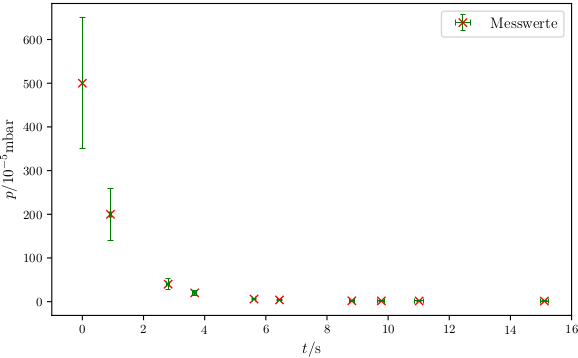
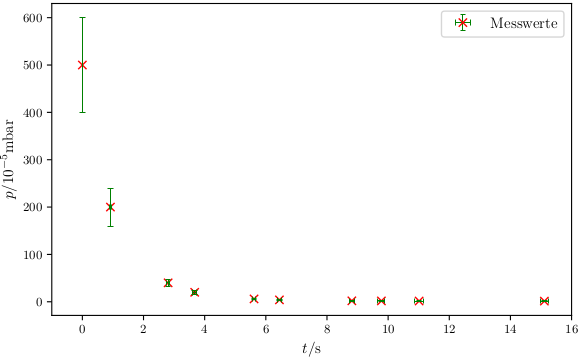
V70 python 2b)

diff --git a/FP-V70/scripts/mainscriptw.py b/FP-V70/scripts/mainscriptw.py
@@ -238,68 +238,6 @@ plt.savefig('content/images/TL.png')
 print('TL done')
 
 
-#TS
-#VTS = 
-
-pTS,tTS_1,tTS_2,tTS_3,tTS_4,tTS_5,tTS_6 = np.genfromtxt(r'scripts/dataTS1.txt',unpack=True)
-p0TS = np.array(500)
-pTS = np.append(p0TS,pTS)
-pTS = unp.uarray(pTS,pTS*0.3)
-pTS_end = 1.2
-pTS_end = unp.uarray(pTS_end,pTS_end*0.3)
-
-tTS = [0]
-tTS_f = [0]
-
-for i in range (0,len(tTS_1)):
-	th,th_f = avg_and_sem([tTS_1[i],tTS_2[i],tTS_3[i],tTS_4[i],tTS_5[i],tTS_6[i]])
-	tTS.append(th)
-	tTS_f.append(th_f)
-
-tTS=unp.uarray(tTS,tTS_f)
-
-pTS_h = (pTS-pTS_end)/(pTS[0]-pTS_end)
-#pTS_log = np.log(noms(pTS_h))
-#pTS_log_err = 1/noms(pTS_h)*stds(pTS_h)
-#pTS_log_err = [np.log(noms(pTS_h)+stds(pTS_h))-np.log(noms(pTS_h)), np.log(noms(pTS_h))-np.log(noms(pTS_h)-stds(pTS_h))]
-#pTS_log = unp.uarray(pTS_log,pTS_log_err)
-pTS_log = unp.log(pTS_h)
-
-#Plot
-#TSE
-plt.cla()
-plt.clf()
-x_plot = np.linspace(-2,15)
-
-plt.errorbar(noms(tTS), noms(pTS), xerr=stds(tTS), yerr=stds(pTS), fmt='rx', markersize=6, elinewidth=0.5, capsize=2, capthick=0.5, ecolor='g',barsabove=True ,label='Messwerte')
-#plt.plot(x_plot,x_plot*paramsLinearTL1[0]+paramsLinearTL1[1],'b-',label='Ausgleichsgerade')
-
-plt.xlabel(r'$t/\si{\second}$')
-plt.ylabel(r'$p/10^{-5}\si{\milli\bar}$')
-plt.xlim(-1,16)
-plt.legend(loc='best')
-plt.tight_layout(pad=0, h_pad=1.08, w_pad=1.08)
-plt.savefig('content/images/TSE.png')
-print('TSE done')
-
-#TSL
-plt.cla()
-plt.clf()
-x_plot = np.linspace(-2,15)
-
-plt.errorbar(noms(tTS), noms(pTS_log), xerr=stds(tTS), yerr=stds(pTS_log), fmt='rx', markersize=6, elinewidth=0.5, capsize=2, capthick=0.5, ecolor='g',barsabove=True ,label='Messwerte')
-#plt.errorbar(noms(tTS), noms(pTS_log), xerr=stds(tTS), yerr=[pTS_log_err[0],pTS_log_err[1]], fmt='rx', markersize=6, elinewidth=0.5, capsize=2, capthick=0.5, ecolor='g',barsabove=True ,label='Messwerte')
-#plt.plot(x_plot,x_plot*paramsLinearTL1[0]+paramsLinearTL1[1],'b-',label='Ausgleichsgerade')
-
-plt.xlabel(r'$t/\si{\second}$')
-plt.ylabel(r'$\log\left(\frac{p-p_e}{p_0-p_e}\right)$')
-#plt.xlim(-1,16)
-plt.legend(loc='best')
-plt.tight_layout(pad=0, h_pad=1.08, w_pad=1.08)
-plt.savefig('content/images/TSL.png')
-print('TSL done')
-print('TS done')
-
 #DL
 VDL = unp.uarray(11.15,1.032)
 #DL1
@@ -488,3 +426,205 @@ plt.savefig('content/images/DL.png')
 print('DL done')
 
 
+#TS
+VTS = unp.uarray(10.298,0.92)
+
+pTS,tTS_1,tTS_2,tTS_3,tTS_4,tTS_5,tTS_6 = np.genfromtxt(r'scripts/dataTS1.txt',unpack=True)
+p0TS = np.array(500)
+pTS = np.append(p0TS,pTS)
+pTS = unp.uarray(pTS,pTS*0.2)
+pTS_end = 1.2
+pTS_end = unp.uarray(pTS_end,pTS_end*0.2)
+
+tTS = [0]
+tTS_f = [0]
+
+for i in range (0,len(tTS_1)):
+	th,th_f = avg_and_sem([tTS_1[i],tTS_2[i],tTS_3[i],tTS_4[i],tTS_5[i],tTS_6[i]])
+	tTS.append(th)
+	tTS_f.append(th_f)
+
+tTS=unp.uarray(tTS,tTS_f)
+
+#pTS_log = np.log(noms(pTS_h))
+#pTS_log_err = 1/noms(pTS_h)*stds(pTS_h)
+#pTS_log_err = [np.log(noms(pTS_h)+stds(pTS_h))-np.log(noms(pTS_h)), np.log(noms(pTS_h))-np.log(noms(pTS_h)-stds(pTS_h))]
+#pTS_log = unp.uarray(pTS_log,pTS_log_err)
+pTS_h = (pTS-pTS_end)/(pTS[0]-pTS_end)
+pTS_log = unp.log(pTS_h)
+
+paramsLinearTS1, errorsLinearTS1, sigma_y = linregress(noms(tTS)[0:4], noms(pTS_log)[0:4])
+steigungTS1 = unp.uarray(paramsLinearTS1[0],errorsLinearTS1[0])
+paramsLinearTS2, errorsLinearTS2, sigma_y = linregress(noms(tTS)[3:6], noms(pTS_log)[3:6])
+steigungTS2 = unp.uarray(paramsLinearTS2[0],errorsLinearTS2[0])
+paramsLinearTS3, errorsLinearTS3, sigma_y = linregress(noms(tTS)[6:10], noms(pTS_log)[6:10])
+steigungTS3 = unp.uarray(paramsLinearTS3[0],errorsLinearTS3[0])
+
+STS1 = steigungTS1*(-VTS) 
+STS2 = steigungTS2*(-VTS) 
+STS3 = steigungTS3*(-VTS) 
+print('STS1 = ', STS1)
+print('STS2 = ', STS2)
+print('STS3 = ', STS3)
+
+"""
+#Plot
+#TSE
+plt.cla()
+plt.clf()
+x_plot = np.linspace(-2,15)
+
+plt.errorbar(noms(tTS), noms(pTS), xerr=stds(tTS), yerr=stds(pTS), fmt='rx', markersize=6, elinewidth=0.5, capsize=2, capthick=0.5, ecolor='g',barsabove=True ,label='Messwerte')
+
+plt.xlabel(r'$t/\si{\second}$')
+plt.ylabel(r'$p/10^{-5}\si{\milli\bar}$')
+plt.xlim(-1,16)
+plt.legend(loc='best')
+plt.tight_layout(pad=0, h_pad=1.08, w_pad=1.08)
+plt.savefig('content/images/TSE.png')
+print('TSE done')
+
+#TSL
+plt.cla()
+plt.clf()
+x_plot = np.linspace(-1,16)
+
+plt.errorbar(noms(tTS), noms(pTS_log), xerr=stds(tTS), yerr=stds(pTS_log), fmt='rx', markersize=6, elinewidth=0.5, capsize=2, capthick=0.5, ecolor='g',barsabove=True ,label='Messwerte')
+plt.plot(x_plot,x_plot*paramsLinearTS1[0]+paramsLinearTS1[1],'b-',label='Ausgleichsgerade1')
+plt.plot(x_plot,x_plot*paramsLinearTS2[0]+paramsLinearTS2[1],'c-',label='Ausgleichsgerade2')
+plt.plot(x_plot,x_plot*paramsLinearTS3[0]+paramsLinearTS3[1],'m-',label='Ausgleichsgerade3')
+
+plt.xlabel(r'$t/\si{\second}$')
+plt.ylabel(r'$\log\left(\frac{p-p_e}{p_0-p_e}\right)$')
+plt.xlim(-1,16)
+plt.legend(loc='best')
+plt.tight_layout(pad=0, h_pad=1.08, w_pad=1.08)
+plt.savefig('content/images/TSL.png')
+print('TSL done')
+"""
+print('TS done')
+
+
+#DS
+VDS = unp.uarray(11.14,1.031)
+
+pDS,tDS_1,tDS_2,tDS_3,tDS_4,tDS_5 = np.genfromtxt(r'scripts/dataDS1.txt',unpack=True)
+p0DS = np.array(1013)
+pDS = np.append(p0DS,pDS)
+pDS = unp.uarray(pDS,pDS*0.2)
+pDS_end = 0.02
+pDS_end = unp.uarray(pDS_end,pDS_end*0.2)
+
+tDS = [0]
+tDS_f = [0]
+
+for i in range (0,len(tDS_1)):
+	th,th_f = avg_and_sem([tDS_1[i],tDS_2[i],tDS_3[i],tDS_4[i],tDS_5[i]])
+	tDS.append(th)
+	tDS_f.append(th_f)
+
+tDS=unp.uarray(tDS,tDS_f)
+
+pDS_h = (pDS-pDS_end)/(pDS[0]-pDS_end)
+pDS_log = unp.log(pDS_h)
+
+paramsLinearDS1, errorsLinearDS1, sigma_y = linregress(noms(tDS)[0:11], noms(pDS_log)[0:11])
+steigungDS1 = unp.uarray(paramsLinearDS1[0],errorsLinearDS1[0])
+paramsLinearDS2, errorsLinearDS2, sigma_y = linregress(noms(tDS)[11:17], noms(pDS_log)[11:17])
+steigungDS2 = unp.uarray(paramsLinearDS2[0],errorsLinearDS2[0])
+
+SDS1 = steigungDS1*(-VDS) 
+SDS2 = steigungDS2*(-VDS) 
+print('SDS1 = ', SDS1)
+print('SDS2 = ', SDS2)
+
+"""
+#Plot
+#DSE
+plt.cla()
+plt.clf()
+
+plt.errorbar(noms(tDS), noms(pDS), xerr=stds(tDS), yerr=stds(pDS), fmt='rx', markersize=6, elinewidth=0.5, capsize=2, capthick=0.5, ecolor='g',barsabove=True ,label='Messwerte')
+
+plt.xlabel(r'$t/\si{\second}$')
+plt.ylabel(r'$p/\si{\milli\bar}$')
+plt.legend(loc='best')
+plt.tight_layout(pad=0, h_pad=1.08, w_pad=1.08)
+plt.savefig('content/images/DSE.png')
+print('DSE done')
+
+#DSL
+plt.cla()
+plt.clf()
+x_plot = np.linspace(-5,135)
+
+plt.errorbar(noms(tDS), noms(pDS_log), xerr=stds(tDS), yerr=stds(pDS_log), fmt='rx', markersize=6, elinewidth=0.5, capsize=2, capthick=0.5, ecolor='g',barsabove=True ,label='Messwerte')
+plt.plot(x_plot,x_plot*paramsLinearDS1[0]+paramsLinearDS1[1],'b-',label='Ausgleichsgerade1')
+plt.plot(x_plot,x_plot*paramsLinearDS2[0]+paramsLinearDS2[1],'c-',label='Ausgleichsgerade2')
+
+plt.xlabel(r'$t/\si{\second}$')
+plt.ylabel(r'$\log\left(\frac{p-p_e}{p_0-p_e}\right)$')
+plt.xlim(-5,135)
+plt.legend(loc='best')
+plt.tight_layout(pad=0, h_pad=1.08, w_pad=1.08)
+plt.savefig('content/images/DSL.png')
+print('DSL done')
+"""
+print('DS done')
+
+
+#Ges
+#GesT
+plt.cla()
+plt.clf()
+
+plt.errorbar([noms(pTL1)[0]*10,noms(pTL1)[-1]*10], [noms(STL1),noms(STL1)], xerr=[stds(pTL1)[0]*10,stds(pTL1)[-1]*10], yerr=[stds(STL1),stds(STL1)], fmt='b-', markersize=6, elinewidth=0.5, capsize=2, capthick=0.5, ecolor='g',barsabove=True ,label='TL1')
+plt.errorbar([noms(pTL2)[0]*10,noms(pTL2)[-1]*10], [noms(STL2),noms(STL2)], xerr=[stds(pTL2)[0]*10,stds(pTL2)[-1]*10], yerr=[stds(STL2),stds(STL2)], fmt='c-', markersize=6, elinewidth=0.5, capsize=2, capthick=0.5, ecolor='g',barsabove=True ,label='TL2')
+plt.errorbar([noms(pTL3)[0]*10,noms(pTL3)[-1]*10], [noms(STL3),noms(STL3)], xerr=[stds(pTL3)[0]*10,stds(pTL3)[-1]*10], yerr=[stds(STL3),stds(STL3)], fmt='m-', markersize=6, elinewidth=0.5, capsize=2, capthick=0.5, ecolor='g',barsabove=True ,label='TL3')
+plt.errorbar([noms(pTL4)[0]*10,noms(pTL4)[-1]*10], [noms(STL4),noms(STL4)], xerr=[stds(pTL4)[0]*10,stds(pTL4)[-1]*10], yerr=[stds(STL1),stds(STL1)], fmt='r-', markersize=6, elinewidth=0.5, capsize=2, capthick=0.5, ecolor='g',barsabove=True ,label='TL4')
+plt.errorbar([noms(pTS)[0],noms(pTS)[3]], [noms(STS1),noms(STS1)], xerr=[stds(pTS)[0],stds(pTS)[3]], yerr=[stds(STS1),stds(STS1)], fmt='b--', markersize=6, elinewidth=0.5, capsize=2, capthick=0.5, ecolor='g',barsabove=True ,label='TS1')
+plt.errorbar([noms(pTS)[3],noms(pTS)[5]], [noms(STS2),noms(STS2)], xerr=[stds(pTS)[3],stds(pTS)[5]], yerr=[stds(STS2),stds(STS2)], fmt='c--', markersize=6, elinewidth=0.5, capsize=2, capthick=0.5, ecolor='g',barsabove=True ,label='TS2')
+plt.errorbar([noms(pTS)[6],noms(pTS)[9]], [noms(STS3),noms(STS3)], xerr=[stds(pTS)[6],stds(pTS)[9]], yerr=[stds(STS3),stds(STS3)], fmt='m--', markersize=6, elinewidth=0.5, capsize=2, capthick=0.5, ecolor='g',barsabove=True ,label='TS3')
+
+#plt.errorbar(noms(pTL1)[0]*10, noms(STL1), xerr=stds(pTL1)[0]*10, yerr=stds(STL1), fmt='bx', markersize=6, elinewidth=0.5, capsize=2, capthick=0.5, ecolor='g',barsabove=True ,label='TL1')
+#plt.errorbar(noms(pTL2)[0]*10, noms(STL2), xerr=stds(pTL2)[0]*10, yerr=stds(STL2), fmt='cx', markersize=6, elinewidth=0.5, capsize=2, capthick=0.5, ecolor='g',barsabove=True ,label='TL2')
+#plt.errorbar(noms(pTL3)[0]*10, noms(STL3), xerr=stds(pTL3)[0]*10, yerr=stds(STL3), fmt='mx', markersize=6, elinewidth=0.5, capsize=2, capthick=0.5, ecolor='g',barsabove=True ,label='TL3')
+#plt.errorbar(noms(pTL4)[0]*10, noms(STL4), xerr=stds(pTL4)[0]*10, yerr=stds(STL1), fmt='rx', markersize=6, elinewidth=0.5, capsize=2, capthick=0.5, ecolor='g',barsabove=True ,label='TL4')
+#plt.errorbar(noms(pTS)[0], noms(STS1), xerr=stds(pTS)[0], yerr=stds(STS1), fmt='ro', markersize=6, elinewidth=0.5, capsize=2, capthick=0.5, ecolor='g',barsabove=True ,label='TS1')
+#plt.errorbar(noms(pTS)[3], noms(STS2), xerr=stds(pTS)[3], yerr=stds(STS2), fmt='co', markersize=6, elinewidth=0.5, capsize=2, capthick=0.5, ecolor='g',barsabove=True ,label='TS2')
+#plt.errorbar(noms(pTS)[6], noms(STS3), xerr=stds(pTS)[6], yerr=stds(STS3), fmt='mo', markersize=6, elinewidth=0.5, capsize=2, capthick=0.5, ecolor='g',barsabove=True ,label='TS3')
+
+plt.xlabel(r'$p_0/10^{-5}\si{\milli\bar}$')
+plt.ylabel(r'$S/\si{\litre\per\second}$')
+plt.legend(loc='best')
+plt.tight_layout(pad=0, h_pad=1.08, w_pad=1.08)
+plt.savefig('content/images/GesT.png')
+print('GesT done')
+
+#GesD
+plt.cla()
+plt.clf()
+
+plt.errorbar([noms(pDL1)[0],noms(pDL1)[-1]], [noms(SDL1),noms(SDL1)], xerr=[stds(pDL1)[0],stds(pDL1)[-1]], yerr=[stds(SDL1),stds(SDL1)], fmt='b-', markersize=6, elinewidth=0.5, capsize=2, capthick=0.5, ecolor='g',barsabove=True ,label='DL1')
+plt.errorbar([noms(pDL2)[0],noms(pDL2)[-1]], [noms(SDL2),noms(SDL2)], xerr=[stds(pDL2)[0],stds(pDL2)[-1]], yerr=[stds(SDL2),stds(SDL2)], fmt='c-', markersize=6, elinewidth=0.5, capsize=2, capthick=0.5, ecolor='g',barsabove=True ,label='DL2')
+plt.errorbar([noms(pDL3)[0],noms(pDL3)[-1]], [noms(SDL3),noms(SDL3)], xerr=[stds(pDL3)[0],stds(pDL3)[-1]], yerr=[stds(SDL3),stds(SDL3)], fmt='m-', markersize=6, elinewidth=0.5, capsize=2, capthick=0.5, ecolor='g',barsabove=True ,label='DL3')
+plt.errorbar([noms(pDL4)[0],noms(pDL4)[-1]], [noms(SDL4),noms(SDL4)], xerr=[stds(pDL4)[0],stds(pDL4)[-1]], yerr=[stds(SDL1),stds(SDL1)], fmt='r-', markersize=6, elinewidth=0.5, capsize=2, capthick=0.5, ecolor='g',barsabove=True ,label='DL4')
+plt.errorbar([noms(pDS)[0],noms(pDS)[10]], [noms(SDS1),noms(SDS1)], xerr=[stds(pDS)[0],stds(pDS)[10]], yerr=[stds(SDS1),stds(SDS1)], fmt='b--', markersize=6, elinewidth=0.5, capsize=2, capthick=0.5, ecolor='g',barsabove=True ,label='DS1')
+plt.errorbar([noms(pDS)[11],noms(pDS)[16]], [noms(SDS2),noms(SDS2)], xerr=[stds(pDS)[11],stds(pDS)[16]], yerr=[stds(SDS2),stds(SDS2)], fmt='c--', markersize=6, elinewidth=0.5, capsize=2, capthick=0.5, ecolor='g',barsabove=True ,label='DS2')
+
+#plt.errorbar(noms(pTL1)[0]*10, noms(STL1), xerr=stds(pTL1)[0]*10, yerr=stds(STL1), fmt='bx', markersize=6, elinewidth=0.5, capsize=2, capthick=0.5, ecolor='g',barsabove=True ,label='TL1')
+#plt.errorbar(noms(pTL2)[0]*10, noms(STL2), xerr=stds(pTL2)[0]*10, yerr=stds(STL2), fmt='cx', markersize=6, elinewidth=0.5, capsize=2, capthick=0.5, ecolor='g',barsabove=True ,label='TL2')
+#plt.errorbar(noms(pTL3)[0]*10, noms(STL3), xerr=stds(pTL3)[0]*10, yerr=stds(STL3), fmt='mx', markersize=6, elinewidth=0.5, capsize=2, capthick=0.5, ecolor='g',barsabove=True ,label='TL3')
+#plt.errorbar(noms(pTL4)[0]*10, noms(STL4), xerr=stds(pTL4)[0]*10, yerr=stds(STL1), fmt='rx', markersize=6, elinewidth=0.5, capsize=2, capthick=0.5, ecolor='g',barsabove=True ,label='TL4')
+#plt.errorbar(noms(pTS)[0], noms(STS1), xerr=stds(pTS)[0], yerr=stds(STS1), fmt='ro', markersize=6, elinewidth=0.5, capsize=2, capthick=0.5, ecolor='g',barsabove=True ,label='TS1')
+#plt.errorbar(noms(pTS)[3], noms(STS2), xerr=stds(pTS)[3], yerr=stds(STS2), fmt='co', markersize=6, elinewidth=0.5, capsize=2, capthick=0.5, ecolor='g',barsabove=True ,label='TS2')
+#plt.errorbar(noms(pTS)[6], noms(STS3), xerr=stds(pTS)[6], yerr=stds(STS3), fmt='mo', markersize=6, elinewidth=0.5, capsize=2, capthick=0.5, ecolor='g',barsabove=True ,label='TS3')
+
+plt.xlabel(r'$p_0/\si{\milli\bar}$')
+plt.ylabel(r'$S/\si{\litre\per\second}$')
+plt.legend(loc='best')
+plt.tight_layout(pad=0, h_pad=1.08, w_pad=1.08)
+plt.savefig('content/images/GesD.png')
+print('GesD done')
+
+print('Ges done')
